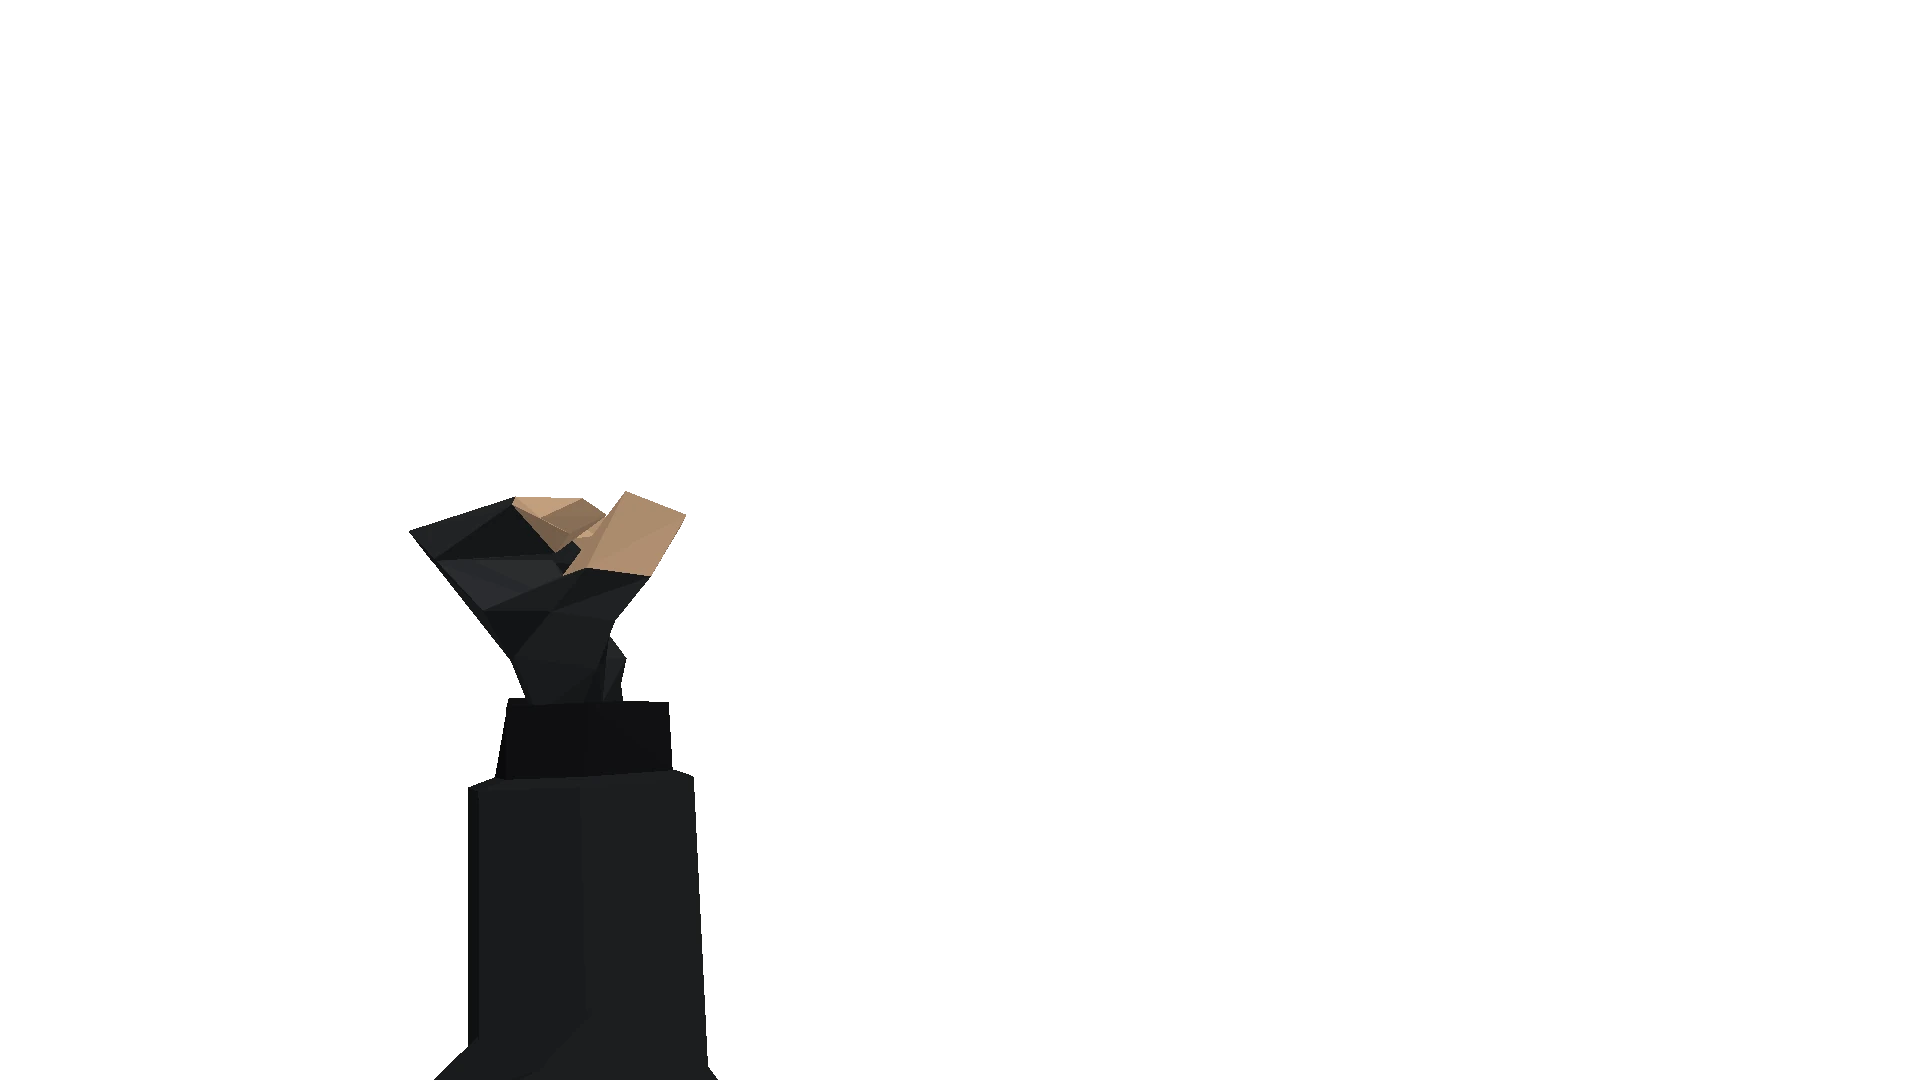
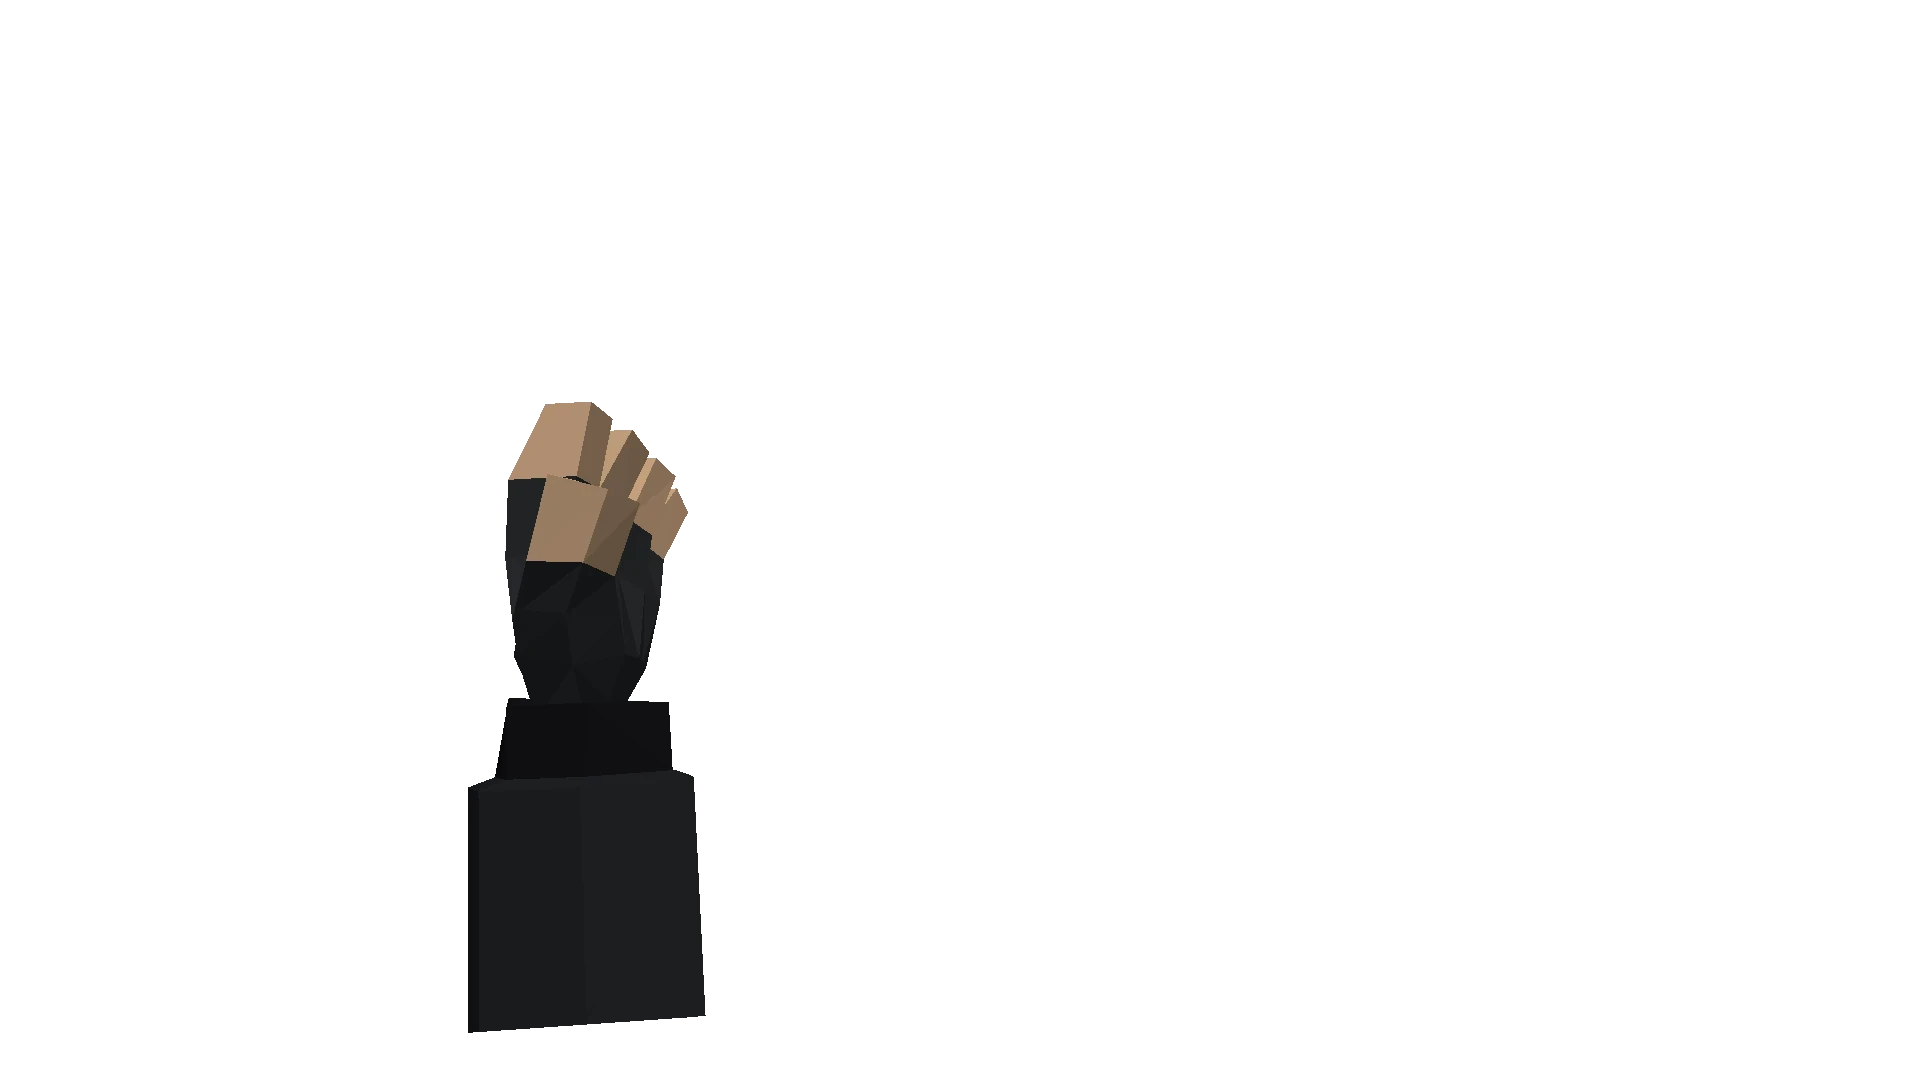
PDA: the original hands are back, the walkie-talkie is held by the same left hand, and the game's camera follows the tablet when it makes room for the handset
Update: PDA
Claude-Session: https://claude.ai/code/session_0161ezvjReexY5uDEt8cannB

Changed region(s): [[0.2188, 0.3667, 0.375, 0.6417], [0.2188, 0.9167, 0.375, 1.0]]

diff --git a/web/game.js b/web/game.js
@@ -338,7 +338,7 @@ try {
     tabletShown = false;
     document.body.classList.remove('pda');
     tablet.classList.remove('up');
-    dockRadio(false);
+    dockRadio(false); walkieUp();
     closeActions();
     setTimeout(() => { if (!tabletUp) v.set_tablet(false); }, 220);
   };
@@ -353,12 +353,29 @@ try {
     if (!inHand && radioEl.parentNode === wkSlot) { radioEl.style.transform = ''; radioHome.insertBefore(radioEl, radioNext); }
   };
   addEventListener('resize', fitRadio);
+  // On a narrow screen the tablet eases back (around its right edge) to make room for the handset; the game's
+  // camera follows so the device in the 3D scene stays exactly behind the close-up.
+  let frameS = 1, frameGoal = 1, frameRaf = 0;
+  const applyFrame = () => {
+    const w = tablet.offsetWidth;
+    tablet.style.scale = frameS === 1 ? '' : frameS.toFixed(4);
+    v.set_tablet_frame(frameS, ((1 - frameS) * w / 2) / innerWidth);
+  };
+  const stepFrame = (t0, from) => (t) => {
+    const k = Math.min(1, (t - t0) / 400), e = k * k * k * (k * (k * 6 - 15) + 10);
+    frameS = from + (frameGoal - from) * e; applyFrame();
+    frameRaf = k < 1 ? requestAnimationFrame(stepFrame(t0, from)) : 0;
+  };
   const walkieUp = () => {
-    const on = radioEl.classList.contains('up');
+    const on = radioEl.classList.contains('up') && tablet.classList.contains('up');
     tablet.classList.toggle('walkie', on);
     // Room for the handset left of the tablet (it reaches 24.5% of the tablet's width past its left edge).
     const w = tablet.offsetWidth, right = (innerWidth + w) / 2, need = w * 1.245 + innerWidth * 0.015;
-    tablet.style.scale = on && need > right ? (right / need).toFixed(3) : '';
+    frameGoal = on && need > right ? right / need : 1;
+    if (frameGoal === frameS) return;
+    cancelAnimationFrame(frameRaf);
+    const t0 = performance.now(), from = frameS;
+    frameRaf = requestAnimationFrame(stepFrame(t0, from));
   };
   addEventListener('resize', walkieUp);
   new MutationObserver(walkieUp).observe(radioEl, { attributes: true, attributeFilter: ['class'] });
@@ -407,7 +424,7 @@ try {
       pdaOpen();
       document.body.classList.add('pda');
       tablet.classList.add('up');
-      dockRadio(true);
+      dockRadio(true); walkieUp();
       const disp = tablet.querySelector('.display');
       disp.classList.remove('boot');
       bootTerminal().then(() => { if (tabletShown) { void disp.offsetWidth; disp.classList.add('boot'); } });

diff --git a/web/index.html b/web/index.html
@@ -132,8 +132,8 @@
     pointer-events: none; user-select: none; }
   /* The arms are separate layers so they can move: the left hand leaves the tablet to raise the walkie-talkie
      beside it (the tablet stays), and the right thumb follows the side buttons and presses them. */
-  #tablet .arm-l { transition: translate 0.24s cubic-bezier(0.25, 0.8, 0.3, 1) 0.26s; }
-  #tablet.walkie .arm-l { translate: 0 45cqw; transition: translate 0.22s cubic-bezier(0.55, 0, 0.8, 0.3) 0s; }
+  #tablet .arm-l { transition: translate 0.26s cubic-bezier(0.25, 0.8, 0.3, 1) 0.26s, visibility 0s 0.26s; }
+  #tablet.walkie .arm-l { translate: 0 70cqw; visibility: hidden; transition: translate 0.22s cubic-bezier(0.55, 0, 0.8, 0.3) 0s, visibility 0s 0.22s; }
   #tablet .wk { z-index: 4; translate: 0 70cqw; visibility: hidden; transition: translate 0.24s cubic-bezier(0.55, 0, 0.8, 0.3) 0s, visibility 0s 0.24s; }
   #tablet.walkie .wk { translate: 0 0; visibility: visible; transition: translate 0.34s cubic-bezier(0.2, 0.85, 0.25, 1) 0.2s, visibility 0s 0.2s; }
   /* On a narrow screen the tablet eases back a little (around its right edge) to make room for the handset. */
@@ -147,7 +147,7 @@
   #tablet .thumb.press { scale: 0.92; filter: drop-shadow(0.1cqw 0.12cqw 0.12cqw rgba(0,0,0,0.5)); }
   /* Held in two hands, the tablet is never quite still: a slow breath, and a small give when it is used. */
   #tablet.up { animation: pda-breath 5.2s ease-in-out infinite; }
-  #tablet { transition: opacity 0.22s ease, rotate 0.3s cubic-bezier(0.3, 0.7, 0.3, 1), scale 0.4s cubic-bezier(0.3, 0.7, 0.3, 1) 0.1s; }
+  #tablet { transition: opacity 0.22s ease, rotate 0.3s cubic-bezier(0.3, 0.7, 0.3, 1); }
   @keyframes pda-breath { 0%, 100% { translate: 0 0; } 30% { translate: 0.04cqw 0.12cqw; } 65% { translate: -0.03cqw 0.05cqw; } }
   @media (prefers-reduced-motion: reduce) { #tablet.up { animation: none; } #tablet .thumb, #tablet .arm-l, #tablet .wk { transition-duration: 0s; } }
   #tablet .device { position: absolute; inset: 0; width: 100%; height: 100%; user-select: none; -webkit-user-drag: none;

diff --git a/crates/scalia-wasm/src/viewer.rs b/crates/scalia-wasm/src/viewer.rs
@@ -193,6 +193,9 @@ pub struct Viewer {
     cmd_rec: [f32; 12],
     /// How much of the screen's height the tablet close-up covers (set by the page).
     tablet_fit: f32,
+    /// The close-up's extra scale and sideways shift (fraction of the screen width), matching the overlay when it
+    /// makes room for the walkie-talkie.
+    tablet_frame: (f32, f32),
     /// The tablet cinematic: opening (true) or closing, when it began (ms), and the camera it started from.
     cine: Option<(bool, f64, (Vec3, f32, f32, f32))>,
     /// Who answers to whom: squads to captains, or straight to the commander.
@@ -334,6 +337,7 @@ pub async fn start_viewer(canvas: web_sys::HtmlCanvasElement) -> Result<Viewer, 
         cmd_phase: -1.0,
         cmd_rec: [0.0; 12],
         tablet_fit: 0.6,
+        tablet_frame: (1.0, 0.0),
         cine: None,
         chain: Command::default(),
         tasks: BTreeMap::new(),
@@ -808,6 +812,10 @@ impl Viewer {
     /// The fraction of the screen's height the tablet close-up's box covers: the dive frames the tablet to match.
     pub fn set_tablet_fit(&mut self, f: f32) {
         self.tablet_fit = f.clamp(0.05, 1.0);
+    }
+    /// Scales the tablet close-up and shifts it sideways (fraction of the screen width, positive to the right).
+    pub fn set_tablet_frame(&mut self, scale: f32, shift: f32) {
+        self.tablet_frame = (scale.clamp(0.3, 1.5), shift.clamp(-0.5, 0.5));
     }
     /// Where the tablet cinematic is: 0 put away, 1 raising it (camera rising and diving), 2 in front of the eyes
     /// (show the tablet's screen), 3 putting it away.
@@ -1949,7 +1957,10 @@ impl Viewer {
         // Behind him, looking the way he faces: first the camera swings round at the player's zoom, then dives.
         let behind = (base + Vec3::Z, h, from.2, from.3);
         // Face-on to the tablet (the camera's elevation is the tablet's tilt), sized like the close-up on screen.
-        let close = (hands, h, TABLET_IMG_H / self.tablet_fit.max(0.05), scalia_render::pose::TABLET_TILT);
+        let vh = TABLET_IMG_H / (self.tablet_fit * self.tablet_frame.0).max(0.05);
+        let aspect = self.size.0 as f32 / self.size.1.max(1) as f32;
+        let (r, _, _) = scalia_render::camera::basis(h);
+        let close = (hands - r * (self.tablet_frame.1 * vh * aspect), h, vh, scalia_render::pose::TABLET_TILT);
         // Smootherstep: starts slow, runs at full pace mid-way, lands slow; the duration is unchanged.
         let ease = |x: f64| { let x = x.clamp(0.0, 1.0) as f32; x * x * x * (x * (x * 6.0 - 15.0) + 10.0) };
         let mix = |a: (Vec3, f32, f32, f32), b: (Vec3, f32, f32, f32), w: f32| {

diff --git a/scripts/fp_hands.py b/scripts/fp_hands.py
@@ -1,0 +1,24 @@
+#!/usr/bin/env python3
+"""The hands used on the tablet are the earlier first-person render (assets/source/fp_hands_ref.webp: body and both
+arms in one image), preferred over a fresh render of the current mesh. This splits its arms into fp_left / fp_right
+(against fp_body from scripts/first_person.py) and builds the walkie-talkie hand from the same left hand, moved to
+grip the handset's lower left. Usage: python3 -I scripts/fp_hands.py web/img"""
+import sys
+import numpy as np
+from PIL import Image
+
+out = sys.argv[1]
+o = np.asarray(Image.open('assets/source/fp_hands_ref.webp')).copy()
+body = np.asarray(Image.open(f'{out}/fp_body.webp'))
+H, W = o.shape[:2]
+same = (np.abs(o[..., :3].astype(int) - body[..., :3].astype(int)).sum(2) < 40) & (body[..., 3] > 0)
+arm = (o[..., 3] > 0) & ~same
+xx = np.arange(W)[None, :].repeat(H, 0)
+save = lambda im, name: im.save(f'{out}/{name}.webp', 'WEBP', quality=90, method=6)
+for name, m in (('fp_left', arm & (xx < W // 2)), ('fp_right', arm & (xx >= W // 2))):
+    a = o.copy(); a[..., 3] = np.where(m, o[..., 3], 0)
+    save(Image.fromarray(a), name)
+# The walkie hand: the same left hand, 178 px left and 75 px down, in front of the handset.
+left = Image.open(f'{out}/fp_left.webp')
+moved = Image.new('RGBA', left.size, (0, 0, 0, 0)); moved.paste(left, (-178, 75), left)
+save(moved, 'fp_lwalkie_back'); save(moved, 'fp_lwalkie_front')
